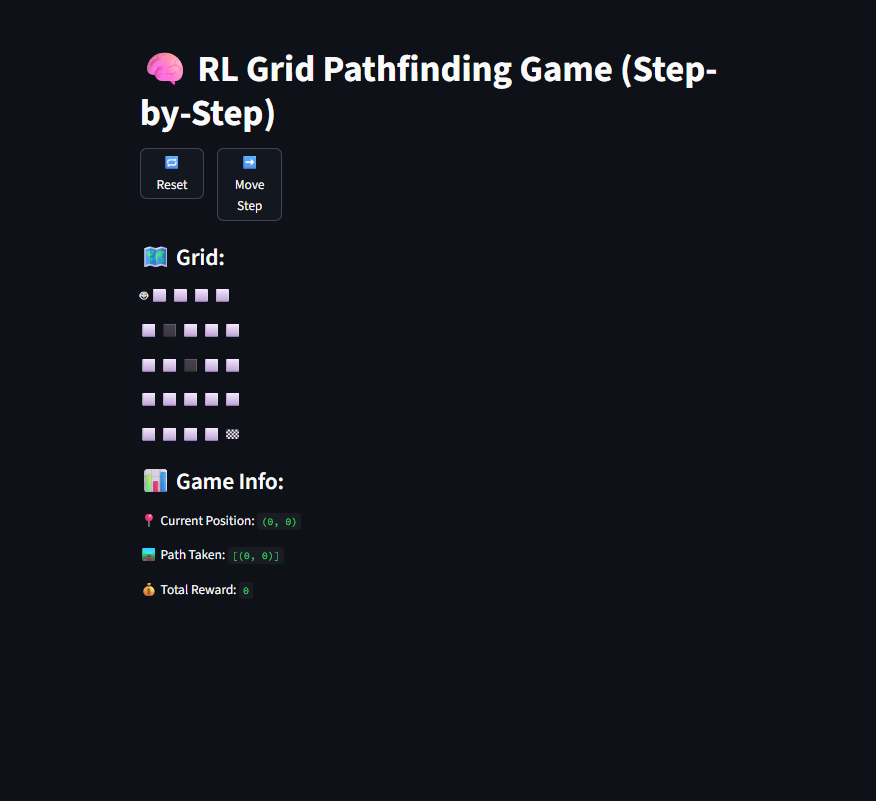
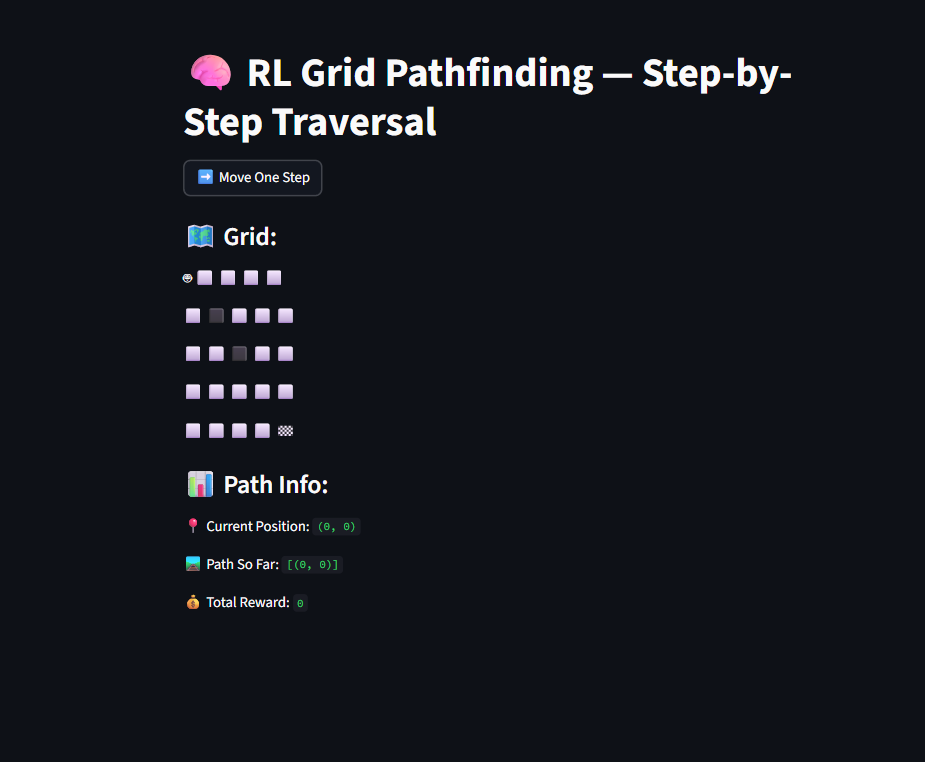
update

Changed region(s): [[0.1541, 0.0604, 0.863, 0.7546], [0.1849, 0.7848, 0.339, 0.815]]

diff --git a/app.py b/app.py
@@ -1,69 +1,80 @@
 import streamlit as st
+import numpy as np
 from agent import QLearningAgent
 from grid_environment import GridEnvironment
+from train_agent import train_agent
 
+# Configuration
 GRID_SIZE = 5
 START = (0, 0)
 GOAL = (4, 4)
 OBSTACLES = [(1, 1), (2, 2)]
 
+# Train agent once
 if 'agent' not in st.session_state:
-    st.session_state.agent = QLearningAgent(GRID_SIZE)
-if 'env' not in st.session_state:
-    st.session_state.env = GridEnvironment(GRID_SIZE, START, GOAL, OBSTACLES)
+    st.session_state.agent = train_agent(episodes=500)
 
+# Reset function
 def reset():
+    st.session_state.env = GridEnvironment(GRID_SIZE, START, GOAL, OBSTACLES)
     st.session_state.agent_pos = START
     st.session_state.total_reward = 0
-    st.session_state.game_over = False
     st.session_state.path = [START]
+    st.session_state.game_over = False
+    st.session_state.visited = set()
 
+# Initialize session state
 if 'agent_pos' not in st.session_state:
     reset()
 
-st.title("🧠 RL Grid Pathfinding Game")
+st.title("🧠 RL Grid Pathfinding — Step-by-Step Traversal")
 
-def render_grid():
+# Render grid
+def render_grid(path):
     grid = [["⬜"] * GRID_SIZE for _ in range(GRID_SIZE)]
     for ox, oy in OBSTACLES:
         grid[ox][oy] = "⬛"
     gx, gy = GOAL
     grid[gx][gy] = "🏁"
-    for (x, y) in st.session_state.path[:-1]:
+    for (x, y) in path[:-1]:
         grid[x][y] = "•"
-    ax, ay = st.session_state.agent_pos
+    ax, ay = path[-1]
     grid[ax][ay] = "🤖"
     return grid
 
-col1, col2, _ = st.columns([1,1,6])
-with col1:
-    st.button("🔁 Reset", on_click=reset)
-with col2:
-    step_pressed = st.button("➡ Move Step")
+# Step button only
+step_pressed = st.button("➡ Move One Step")
 
-st.subheader("🗺 Grid:")
-grid = render_grid()
-for row in grid:
-    st.write(" ".join(row))
-
+# Step-by-step traversal
 if step_pressed and not st.session_state.game_over:
     env = st.session_state.env
     agent = st.session_state.agent
     state = st.session_state.agent_pos
 
-    action = agent.choose_action(state)
+    action = np.argmax(agent.q_table[state[0], state[1]])
     next_state, reward, done = env.step(action)
-    agent.learn(state, action, reward, next_state)
 
-    st.session_state.agent_pos = next_state
-    st.session_state.path.append(next_state)
-    st.session_state.total_reward += reward
-    st.session_state.game_over = done
+    if next_state in st.session_state.visited:
+        st.error("⚠ Loop detected. Training may be insufficient.")
+        st.session_state.game_over = True
+    else:
+        st.session_state.visited.add(next_state)
+        st.session_state.agent_pos = next_state
+        st.session_state.path.append(next_state)
+        st.session_state.total_reward += reward
+        st.session_state.game_over = done
 
-st.subheader("📊 Game Info:")
+# Display grid
+st.subheader("🗺 Grid:")
+grid = render_grid(st.session_state.path)
+for row in grid:
+    st.write(" ".join(row))
+
+# Info
+st.subheader("📊 Path Info:")
 st.write(f"📍 Current Position: `{st.session_state.agent_pos}`")
-st.write(f"🛤 Path Taken: `{st.session_state.path}`")
+st.write(f"🛤 Path So Far: `{st.session_state.path}`")
 st.write(f"💰 Total Reward: `{st.session_state.total_reward}`")
 
 if st.session_state.game_over:
-    st.success("🎉 Goal Reached! The agent has learned an optimal path!")
+    st.success("🎯 Goal reached or traversal complete!")

diff --git a/extract_best_path.py b/extract_best_path.py
@@ -1,0 +1,76 @@
+# from agent import QLearningAgent
+# from grid_environment import GridEnvironment
+# import numpy as np
+
+# GRID_SIZE = 5
+# START = (0, 0)
+# GOAL = (4, 4)
+# OBSTACLES = [(1, 1), (2, 2)]
+
+# def extract_best_path(agent):
+#     env = GridEnvironment(GRID_SIZE, START, GOAL, OBSTACLES)
+#     state = env.reset()
+#     path = [state]
+#     total_reward = 0
+#     visited = set()
+
+#     while state != GOAL:
+#         action = np.argmax(agent.q_table[state[0], state[1]])
+#         next_state, reward, done = env.step(action)
+
+#         if next_state in visited:
+#             print("⚠ Loop detected. Breaking out.")
+#             break
+#         visited.add(next_state)
+
+#         path.append(next_state)
+#         total_reward += reward
+#         state = next_state
+
+#     print("✅ Optimal Path:", path)
+#     print("💰 Total Reward:", total_reward)
+
+# if __name__ == "__main__":
+#     from train_agent import train_agent
+#     trained_agent = train_agent(episodes=500)
+#     extract_best_path(trained_agent)
+
+
+from agent import QLearningAgent
+from grid_environment import GridEnvironment
+import numpy as np
+
+# Config
+GRID_SIZE = 5
+START = (0, 0)
+GOAL = (4, 4)
+OBSTACLES = [(1, 1), (2, 2)]
+
+def run_best_path(agent):
+    env = GridEnvironment(GRID_SIZE, START, GOAL, OBSTACLES)
+    state = env.reset()
+    path = [state]
+    total_reward = 0
+    visited = set()
+
+    while state != GOAL:
+        action = np.argmax(agent.q_table[state[0], state[1]])
+        next_state, reward, done = env.step(action)
+
+        if next_state in visited:
+            print("⚠ Loop detected. Breaking out.")
+            break
+        visited.add(next_state)
+
+        path.append(next_state)
+        total_reward += reward
+        state = next_state
+
+    print("\n✅ Best Path to Goal:")
+    print(" → ".join([str(p) for p in path]))
+    print(f"💰 Total Reward: {total_reward}")
+
+if __name__ == "__main__":
+    from train_agent import train_agent
+    trained_agent = train_agent(episodes=500)
+    run_best_path(trained_agent)

diff --git a/train_agent.py b/train_agent.py
@@ -1,7 +1,7 @@
+# train_agent.py
 import numpy as np
 from agent import QLearningAgent
 from grid_environment import GridEnvironment
-import matplotlib.pyplot as plt
 
 GRID_SIZE = 5
 START = (0, 0)
@@ -11,30 +11,14 @@ OBSTACLES = [(1, 1), (2, 2)]
 def train_agent(episodes=500):
     env = GridEnvironment(GRID_SIZE, START, GOAL, OBSTACLES)
     agent = QLearningAgent(GRID_SIZE)
-    rewards = []
 
-    for ep in range(episodes):
+    for _ in range(episodes):
         state = env.reset()
         done = False
-        total_reward = 0
-
         while not done:
             action = agent.choose_action(state)
             next_state, reward, done = env.step(action)
             agent.learn(state, action, reward, next_state)
             state = next_state
-            total_reward += reward
-
-        rewards.append(total_reward)
-
-    # Plot training progress
-    plt.plot(rewards)
-    plt.xlabel("Episode")
-    plt.ylabel("Total Reward")
-    plt.title("Training Progress")
-    plt.show()
 
     return agent
-
-if __name__ == "__main__":
-    trained_agent = train_agent()
